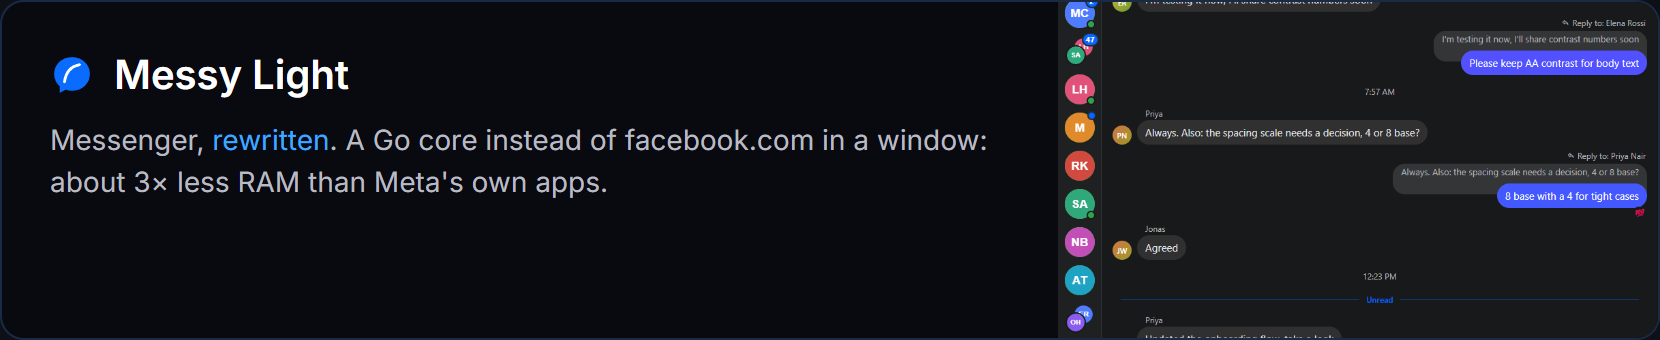
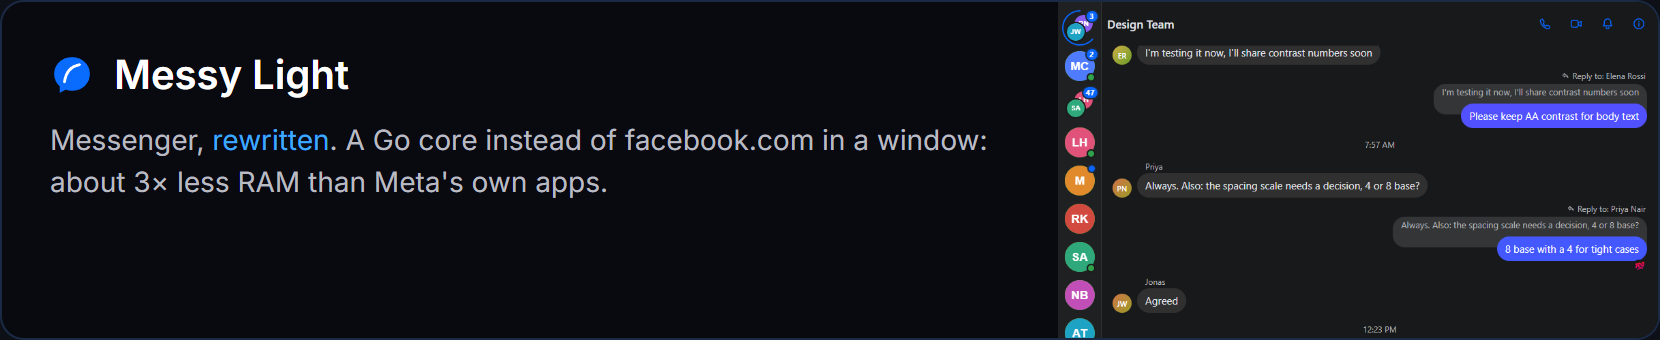
SV06 Reforged card instead of Najemnik, Messy Light card re-cropped, More projects list

diff --git a/README.md b/README.md
@@ -3,6 +3,18 @@
 <a href="https://exponential-demo.onrender.com"><img src="assets/c-expo.png" alt="ExpoNential: because your progress should be exponential, not linear. Live demo." width="100%"></a>
 <a href="https://wheatlay.is-a.dev/messy-light/"><img src="assets/c-messy.png" alt="Messy Light: Messenger, rewritten. A Go core instead of facebook.com in a window, about 3x less RAM than Meta apps. Project page." width="100%"></a>
 <a href="https://wheatlay.github.io/Buffer/"><img src="assets/c-buffer.png" alt="Buffer: always-on clip recorder for Windows. Project page." width="100%"></a>
-<a href="https://najemnik-demo.onrender.com"><img src="assets/c-najemnik.png" alt="Najemnik: real cost of renting, offers side by side. Live demo." width="100%"></a>
+<a href="https://github.com/Wheatlay/sv06-reforged"><img src="assets/c-sv06.png" alt="SV06 Reforged: custom Marlin firmware for the Sovol SV06 3D printer with a spool tracker, night mode, delayed start and a new status screen." width="100%"></a>
 
 <img src="assets/a-stack.png" alt="TypeScript, Node.js, React, PostgreSQL, Python, FastAPI, Rust, Tauri, Go, Docker" width="100%">
+
+### More projects
+
+- **[Najemnik](https://najemnik-demo.onrender.com)**: real monthly and move-in cost of rentals, offers side by side. Python, FastAPI, HTMX.
+- **[Switchboard for Claude Code](https://github.com/Wheatlay/switchboard-for-claude-code)**: switch Claude Code accounts per window or repo, plan limits in the status bar. VS Code extension.
+- **[Stateful Buttons](https://github.com/Wheatlay/stateful-buttons)**: VS Code status bar buttons that run commands and show live ON/OFF state.
+- **[OrcaSlicer MCP](https://github.com/Wheatlay/orcaslicer-mcp)**: drive OrcaSlicer from Claude or any MCP client: load, tune, slice, analyse.
+- **[Compact Notifications](https://github.com/Wheatlay/compact-notifications)**: Windhawk mod that turns Windows notification banners into compact cards.
+- **[Tanuki](https://github.com/Wheatlay/tanuki)**: proxy for AI security testing that keeps real target data out of LLM API logs.
+
+CV, experience and project details: **[wheatlay.is-a.dev](https://wheatlay.is-a.dev)**
+
